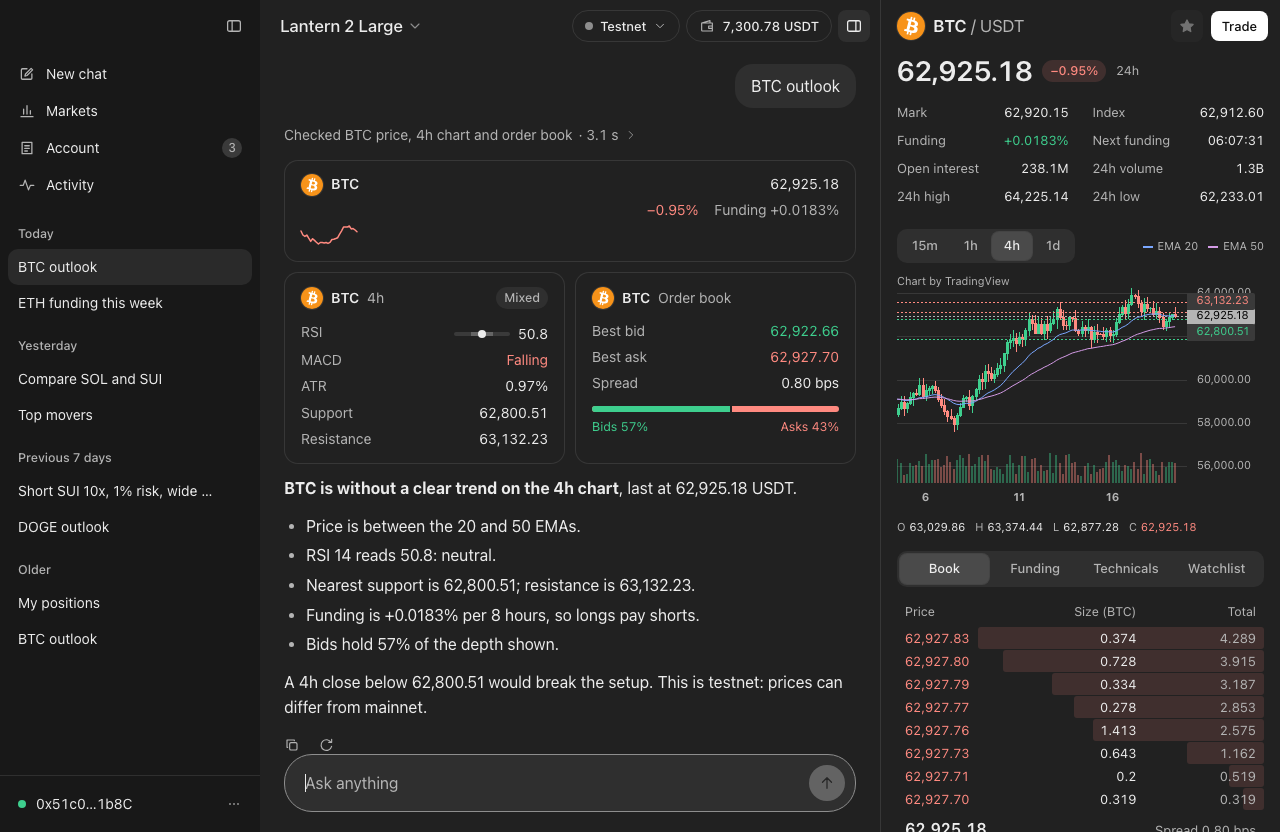
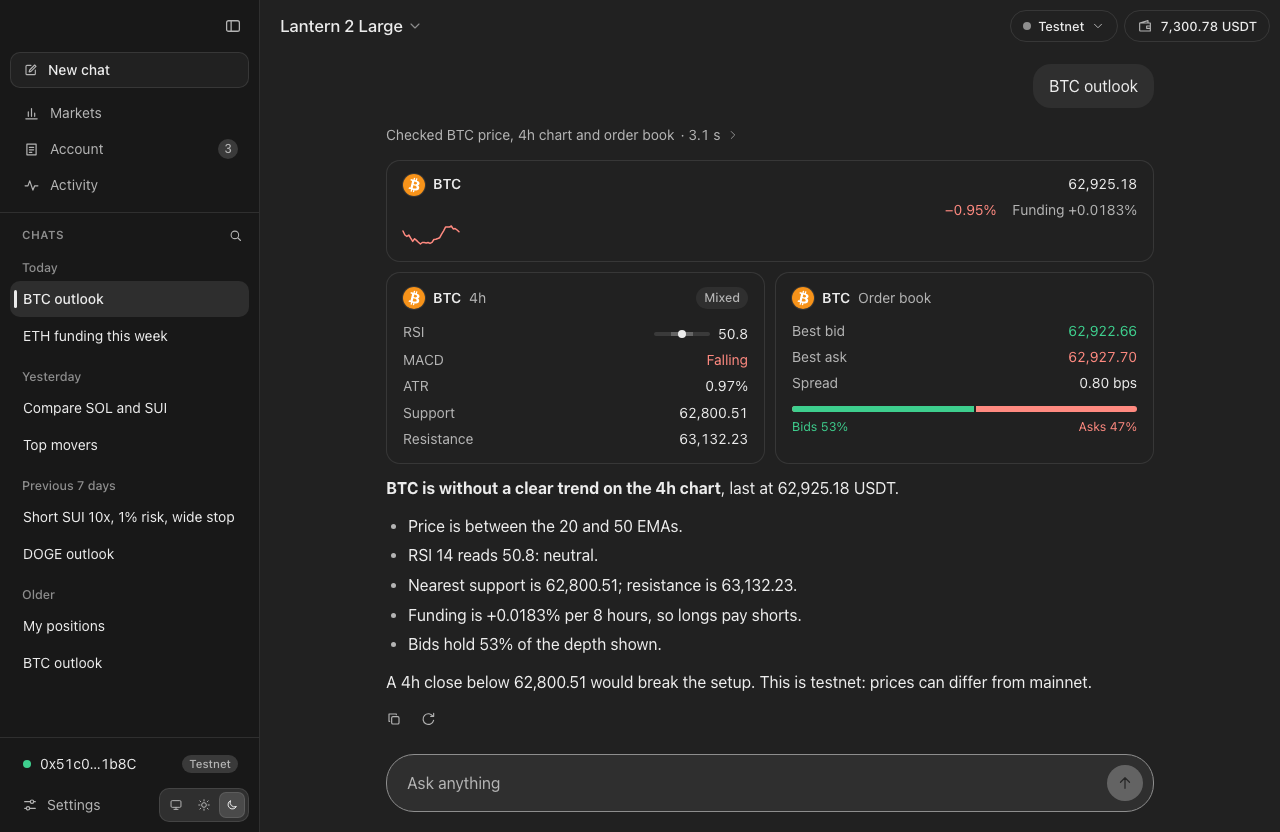
📝 docs: retake the README pictures for the new sidebar
The six pictures of the app showed the old sidebar and the market panel
beside the conversation. Retake them against the built-in mock on
testnet, at the same size, and describe the first one as it is now.

diff --git a/README.md b/README.md
@@ -4,7 +4,7 @@ Website: [octoneo.xyz](https://octoneo.xyz). Download the [latest release](https
 
 OctoNeo is a desktop AI trading assistant for perpetual futures on a decentralised exchange. You chat with it the way you chat with any AI assistant. It reads live market data, sizes positions from the risk you accept, and drafts order tickets. You trade from your own web3 wallet and confirm every order. It runs on Windows, macOS and Linux.
 
-![A conversation with the assistant beside the live market panel](docs/images/assistant-dark.png)
+![The assistant answering "BTC outlook", with the price, the 4h reading and the order book it read shown as cards above its answer](docs/images/assistant-dark.png)
 
 - **Just ask.** "BTC outlook", "Top movers", "Long ETH, 1% risk". The assistant plans its own research and shows what it read as cards under the answer: prices, a technical reading, the order book, a position plan.
 - **Bring your own model.** OpenRouter, Cloudflare AI Gateway, or a model on your own computer with Ollama or LM Studio.
